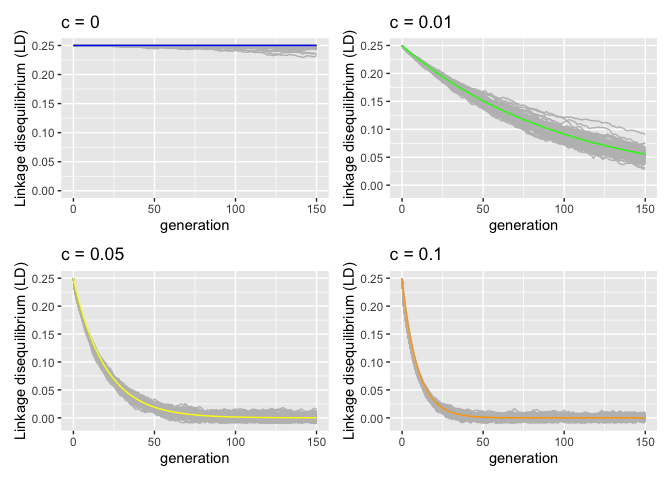
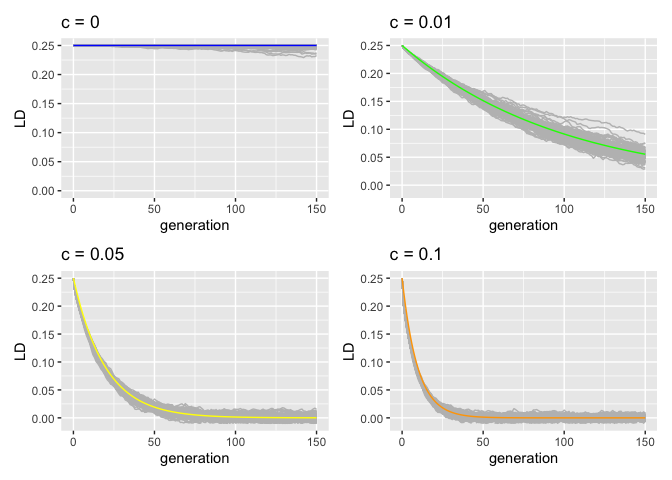
Labels fixed

diff --git a/Validation/2022_08_08_Validation_8_Linkage_Disequilibrium.md b/Validation/2022_08_08_Validation_8_Linkage_Disequilibrium.md
@@ -128,7 +128,7 @@ names(t_8_1)<-c("rep", "gen", "D")
 g_8_1<-ggplot()+
   geom_line(data = t_8_1, aes(x = gen, y = D, group = rep), color = "grey")+
   geom_line(data = df, aes(x = gen, y = Dnc_0.00), color = "blue")+
-  xlab("generation")+ylab("Linkage disequilibrium (LD)")+
+  xlab("generation")+ylab("LD")+
   ggtitle("c = 0")+
   ylim(0, 0.25)
 
@@ -137,7 +137,7 @@ names(t_8_2)<-c("rep", "gen", "D")
 g_8_2<-ggplot()+
   geom_line(data = t_8_2, aes(x = gen, y = D, group = rep), color = "grey")+
   geom_line(data = df, aes(x = gen, y = Dnc_0.01), color = "green")+
-  xlab("generation")+ylab("Linkage disequilibrium (LD)")+
+  xlab("generation")+ylab("LD")+
   ggtitle("c = 0.01")+
   ylim(-0.01, 0.25)
 
@@ -146,7 +146,7 @@ names(t_8_3)<-c("rep", "gen", "D")
 g_8_3<-ggplot()+
   geom_line(data = t_8_3, aes(x = gen, y = D, group = rep), color = "grey")+
   geom_line(data = df, aes(x = gen, y = Dnc_0.05), color = "yellow")+
-  xlab("generation")+ylab("Linkage disequilibrium (LD)")+
+  xlab("generation")+ylab("LD")+
   ggtitle("c = 0.05")+
   ylim(-0.01, 0.25)
 
@@ -155,7 +155,7 @@ names(t_8_4)<-c("rep", "gen", "D")
 g_8_4<-ggplot()+
   geom_line(data = t_8_4, aes(x = gen, y = D, group = rep), color = "grey")+
   geom_line(data = df, aes(x = gen, y = Dnc_0.1), color = "orange")+
-  xlab("generation")+ylab("Linkage disequilibrium (LD)")+
+  xlab("generation")+ylab("LD")+
   ggtitle("c = 0.1")+
   ylim(-0.01, 0.25)
 
